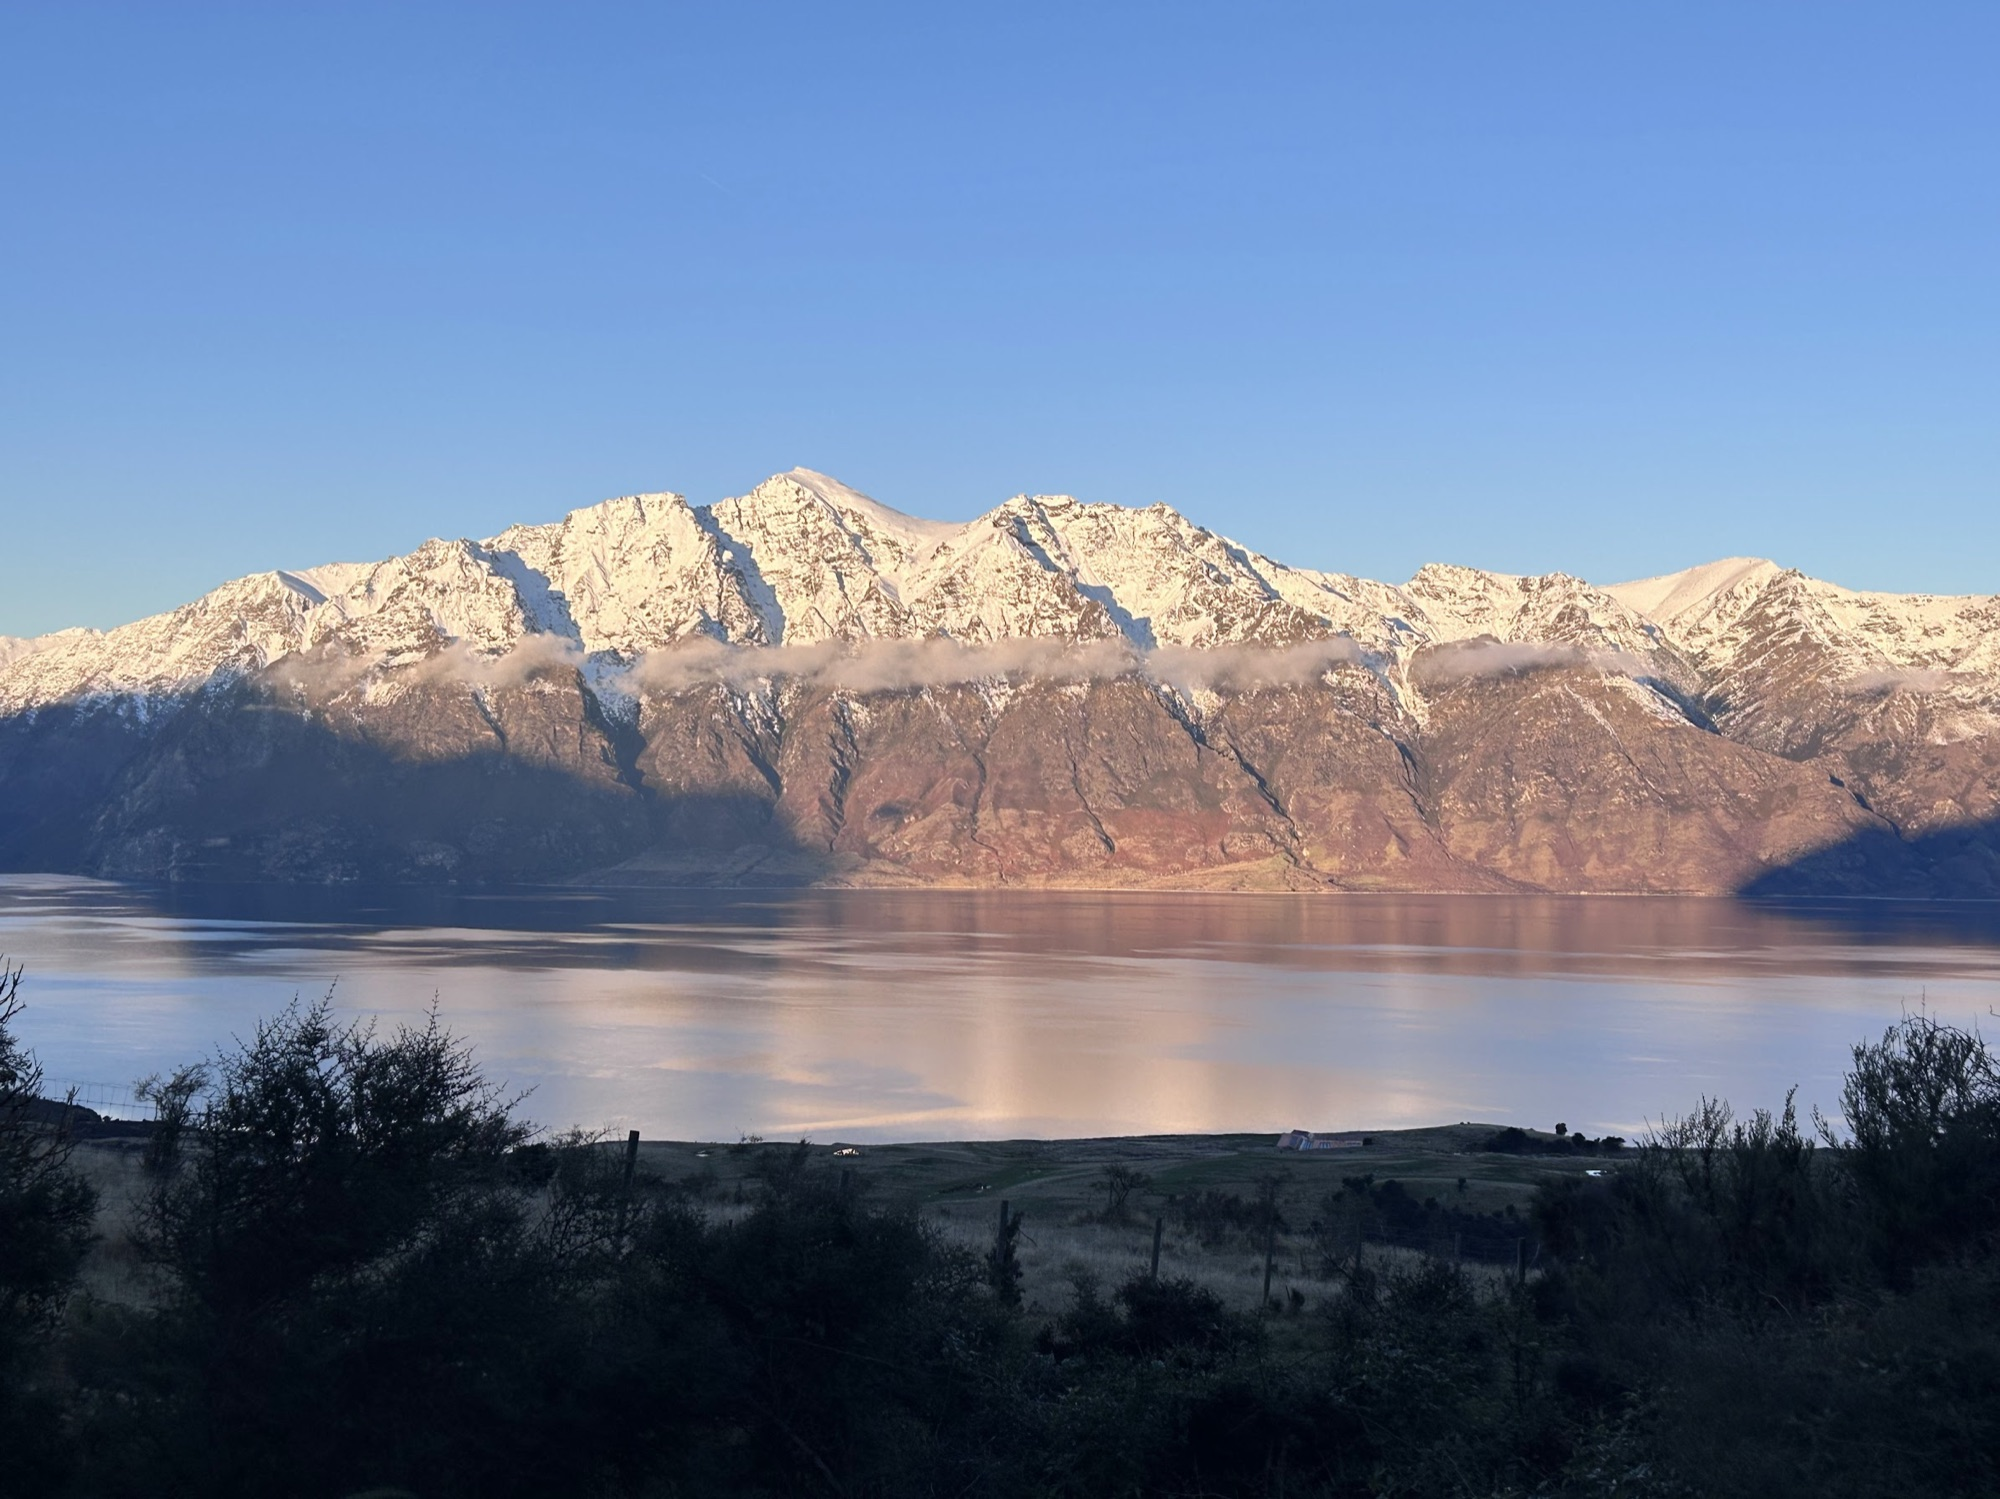
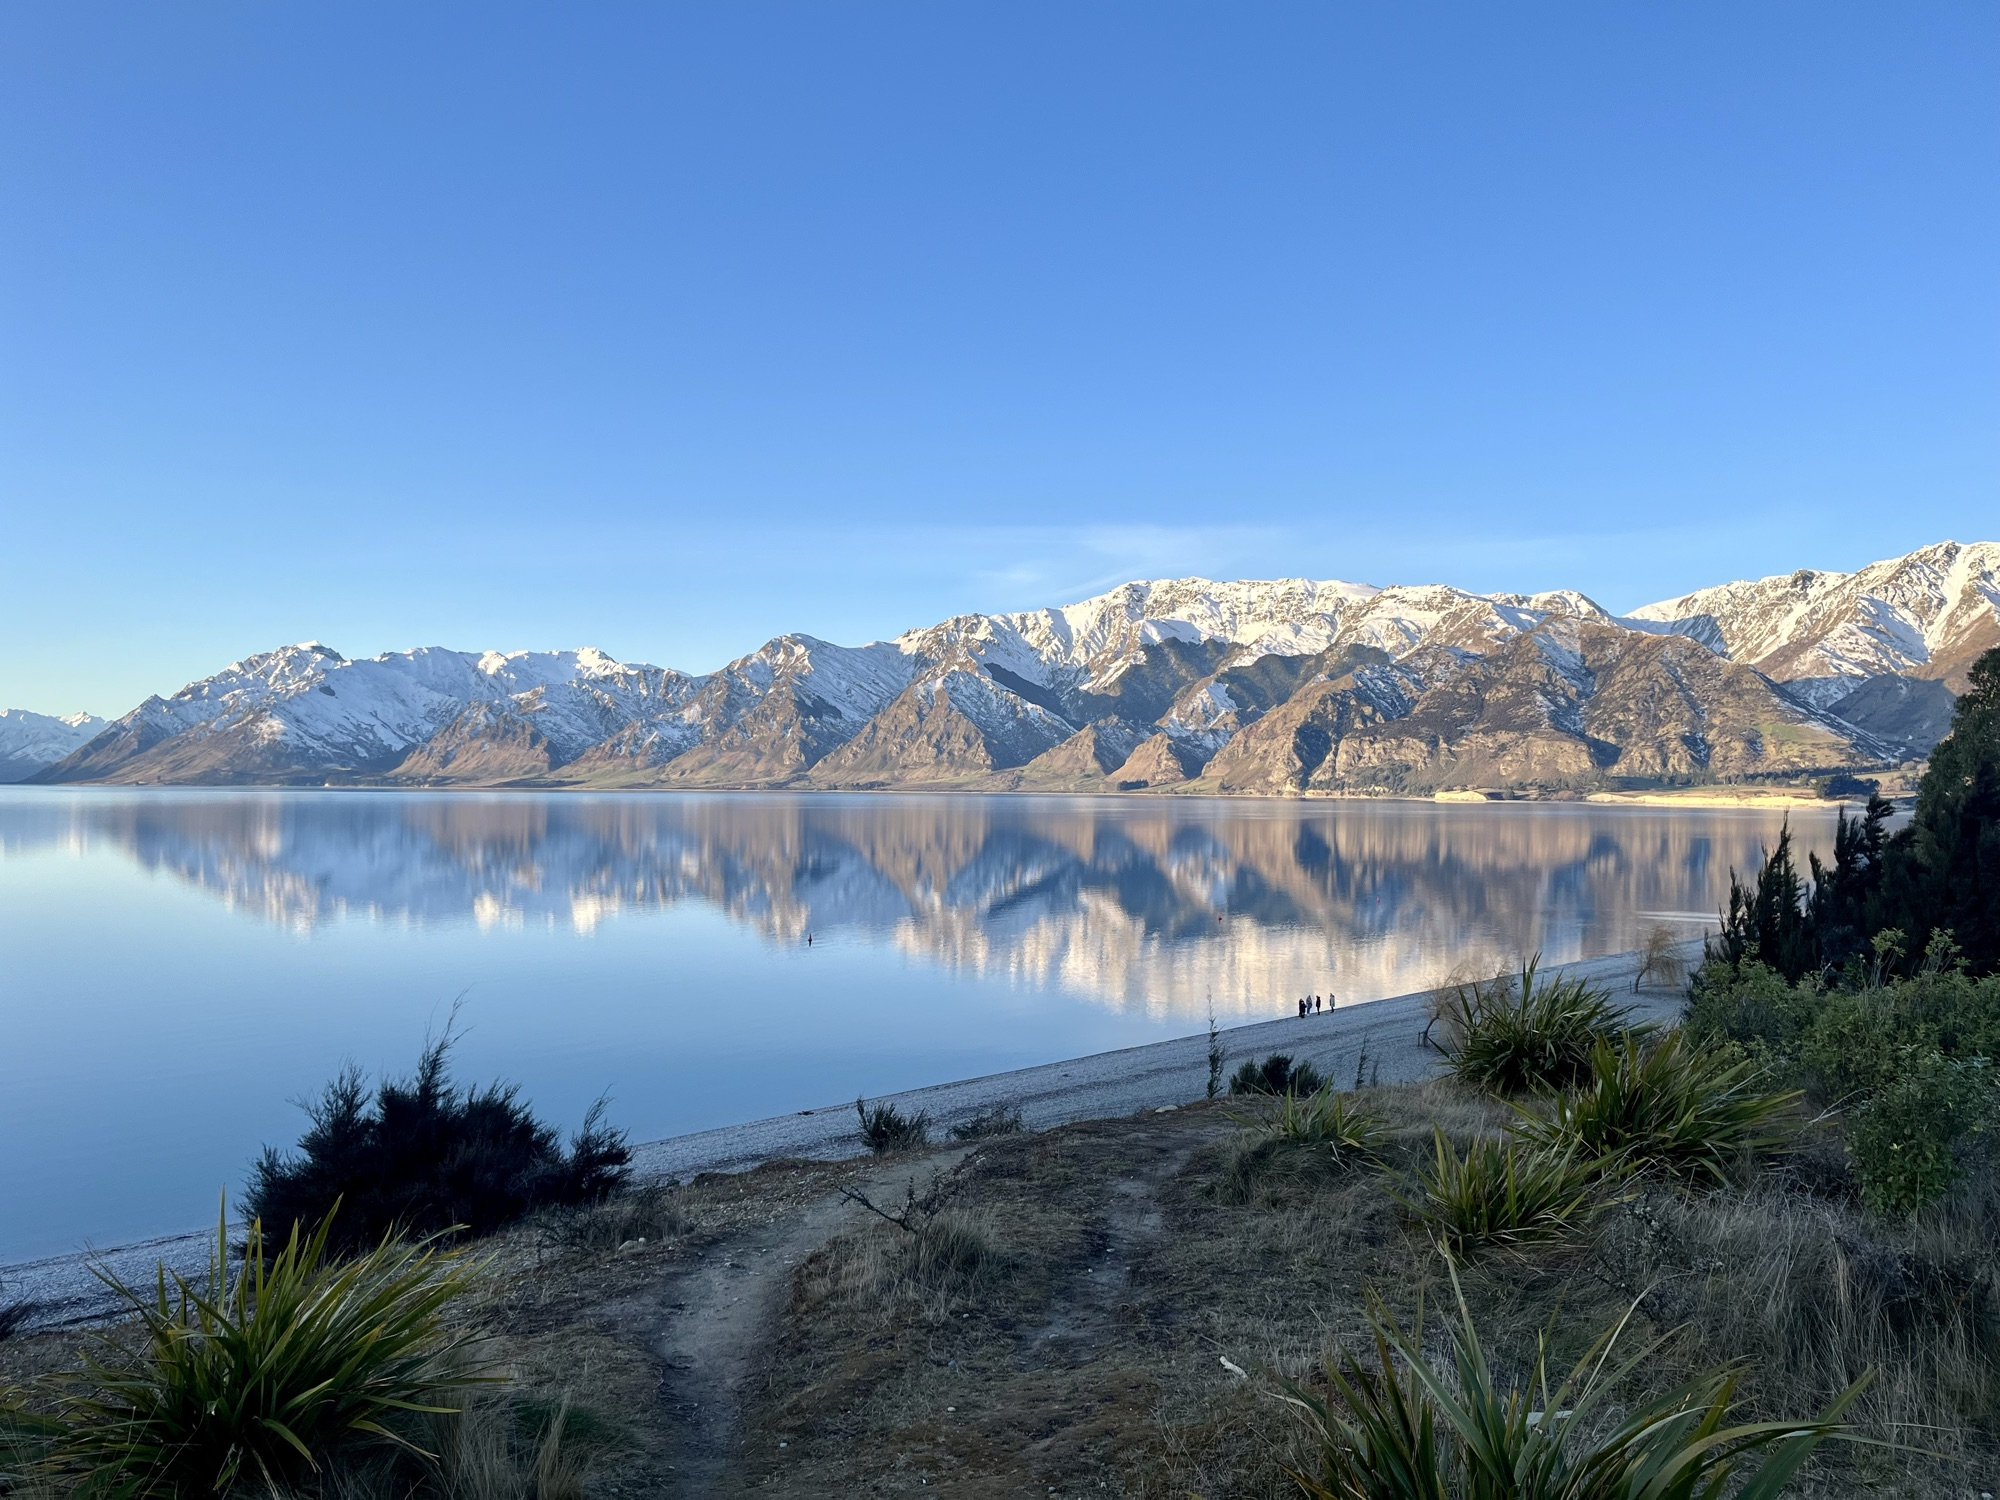
Caption the alpenglow photo as Corner Peak and Breast Hill from Isthmus Peak

diff --git a/src/i18n/de.ts b/src/i18n/de.ts
@@ -179,7 +179,7 @@ export const de: PartialStrings = {
       kitchen: 'Die Küche',
       'lake-winter': 'Lake Hawea im Winter',
       garden: 'Der Garten',
-      'breast-hill': 'Aussicht vom Breast Hill',
+      'breast-hill': 'Corner Peak und Breast Hill, vom Isthmus Peak aus gesehen',
     },
   },
   map: {

diff --git a/src/i18n/nl.ts b/src/i18n/nl.ts
@@ -179,7 +179,7 @@ export const nl: PartialStrings = {
       kitchen: 'De keuken',
       'lake-winter': 'Lake Hawea in de winter',
       garden: 'De tuin',
-      'breast-hill': 'Uitzicht vanaf Breast Hill',
+      'breast-hill': 'Corner Peak en Breast Hill, gezien vanaf Isthmus Peak',
     },
   },
   map: {

diff --git a/src/i18n/es.ts b/src/i18n/es.ts
@@ -179,7 +179,7 @@ export const es: PartialStrings = {
       kitchen: 'La cocina',
       'lake-winter': 'Lake Hawea en invierno',
       garden: 'El jardín',
-      'breast-hill': 'Vistas desde Breast Hill',
+      'breast-hill': 'Corner Peak y Breast Hill, vistos desde Isthmus Peak',
     },
   },
   map: {

diff --git a/src/i18n/ko.ts b/src/i18n/ko.ts
@@ -179,7 +179,7 @@ export const ko: PartialStrings = {
       kitchen: '주방',
       'lake-winter': '겨울의 Lake Hawea',
       garden: '정원',
-      'breast-hill': 'Breast Hill에서 본 풍경',
+      'breast-hill': 'Isthmus Peak에서 바라본 Corner Peak와 Breast Hill',
     },
   },
   map: {

diff --git a/src/i18n/en.ts b/src/i18n/en.ts
@@ -183,7 +183,7 @@ export const en = {
       kitchen: 'The kitchen',
       'lake-winter': 'Lake Hawea in winter',
       garden: 'The garden',
-      'breast-hill': 'Breast Hill view',
+      'breast-hill': 'Corner Peak and Breast Hill from Isthmus Peak',
     } as Record<string, string>,
   },
   map: {

diff --git a/src/i18n/ja.ts b/src/i18n/ja.ts
@@ -179,7 +179,7 @@ export const ja: PartialStrings = {
       kitchen: 'キッチン',
       'lake-winter': '冬の Lake Hawea',
       garden: '庭',
-      'breast-hill': 'Breast Hill からの眺め',
+      'breast-hill': 'Isthmus Peak から望む Corner Peak と Breast Hill',
     },
   },
   map: {

diff --git a/src/i18n/fr.ts b/src/i18n/fr.ts
@@ -179,7 +179,7 @@ export const fr: PartialStrings = {
       kitchen: 'La cuisine',
       'lake-winter': 'Lake Hawea en hiver',
       garden: 'Le jardin',
-      'breast-hill': 'Vue depuis Breast Hill',
+      'breast-hill': 'Corner Peak et Breast Hill, vus depuis Isthmus Peak',
     },
   },
   map: {

diff --git a/src/i18n/zh.ts b/src/i18n/zh.ts
@@ -179,7 +179,7 @@ export const zh: PartialStrings = {
       kitchen: '厨房',
       'lake-winter': '冬天的 Lake Hawea',
       garden: '花园',
-      'breast-hill': '从 Breast Hill 远眺',
+      'breast-hill': '从 Isthmus Peak 眺望 Corner Peak 和 Breast Hill',
     },
   },
   map: {
